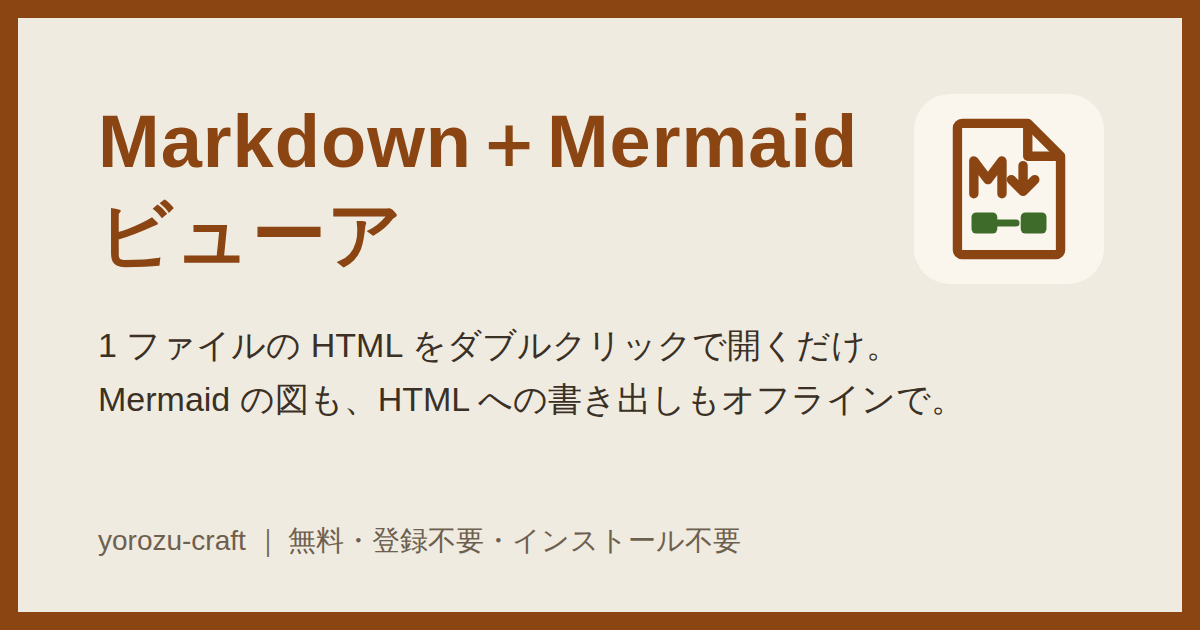
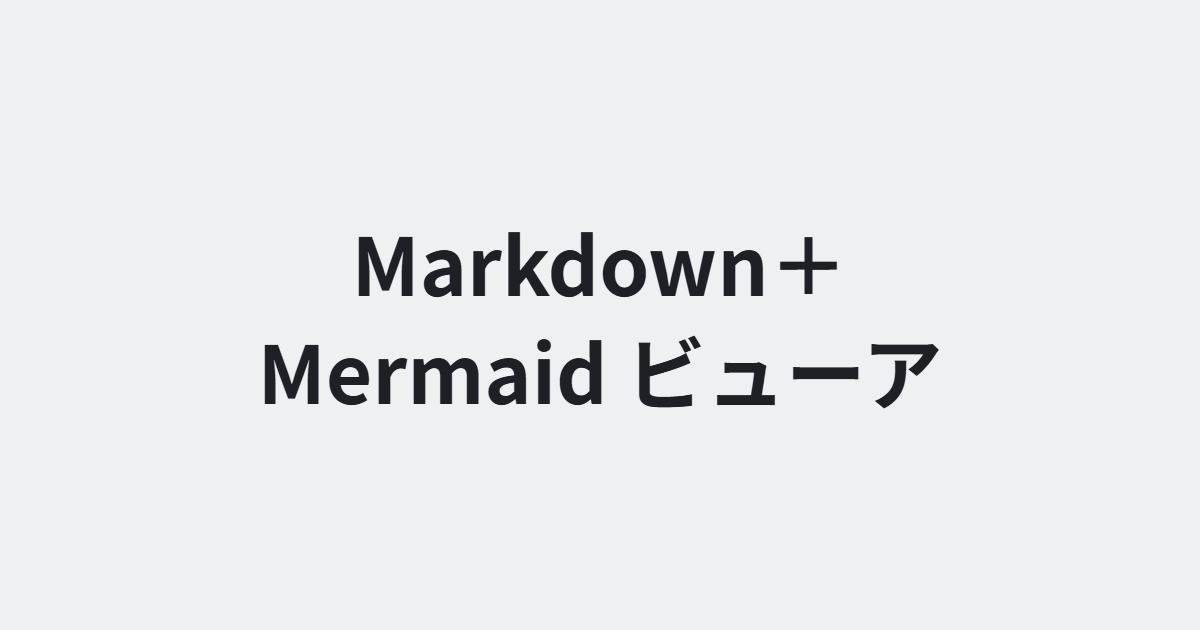
D416: アイコン・og・manifest・theme-color を皮の値に（tools/build-brand.mjs の生成物）
favicon は絵を残して v1 のトークンの色だけ皮の色に、og は皮の 2 色に入口の題名だけ（7.141 A・B）

diff --git a/index.html b/index.html
@@ -18,7 +18,7 @@
   <meta property="og:image:width" content="1200">
   <meta property="og:image:height" content="630">
   <meta name="twitter:card" content="summary_large_image">
-  <meta name="theme-color" content="#0e5a6b" media="(prefers-color-scheme: light)">
+  <meta name="theme-color" content="#eef0f2" media="(prefers-color-scheme: light)">
   <meta name="theme-color" content="#15191d" media="(prefers-color-scheme: dark)">
 
   <script type="application/ld+json">
